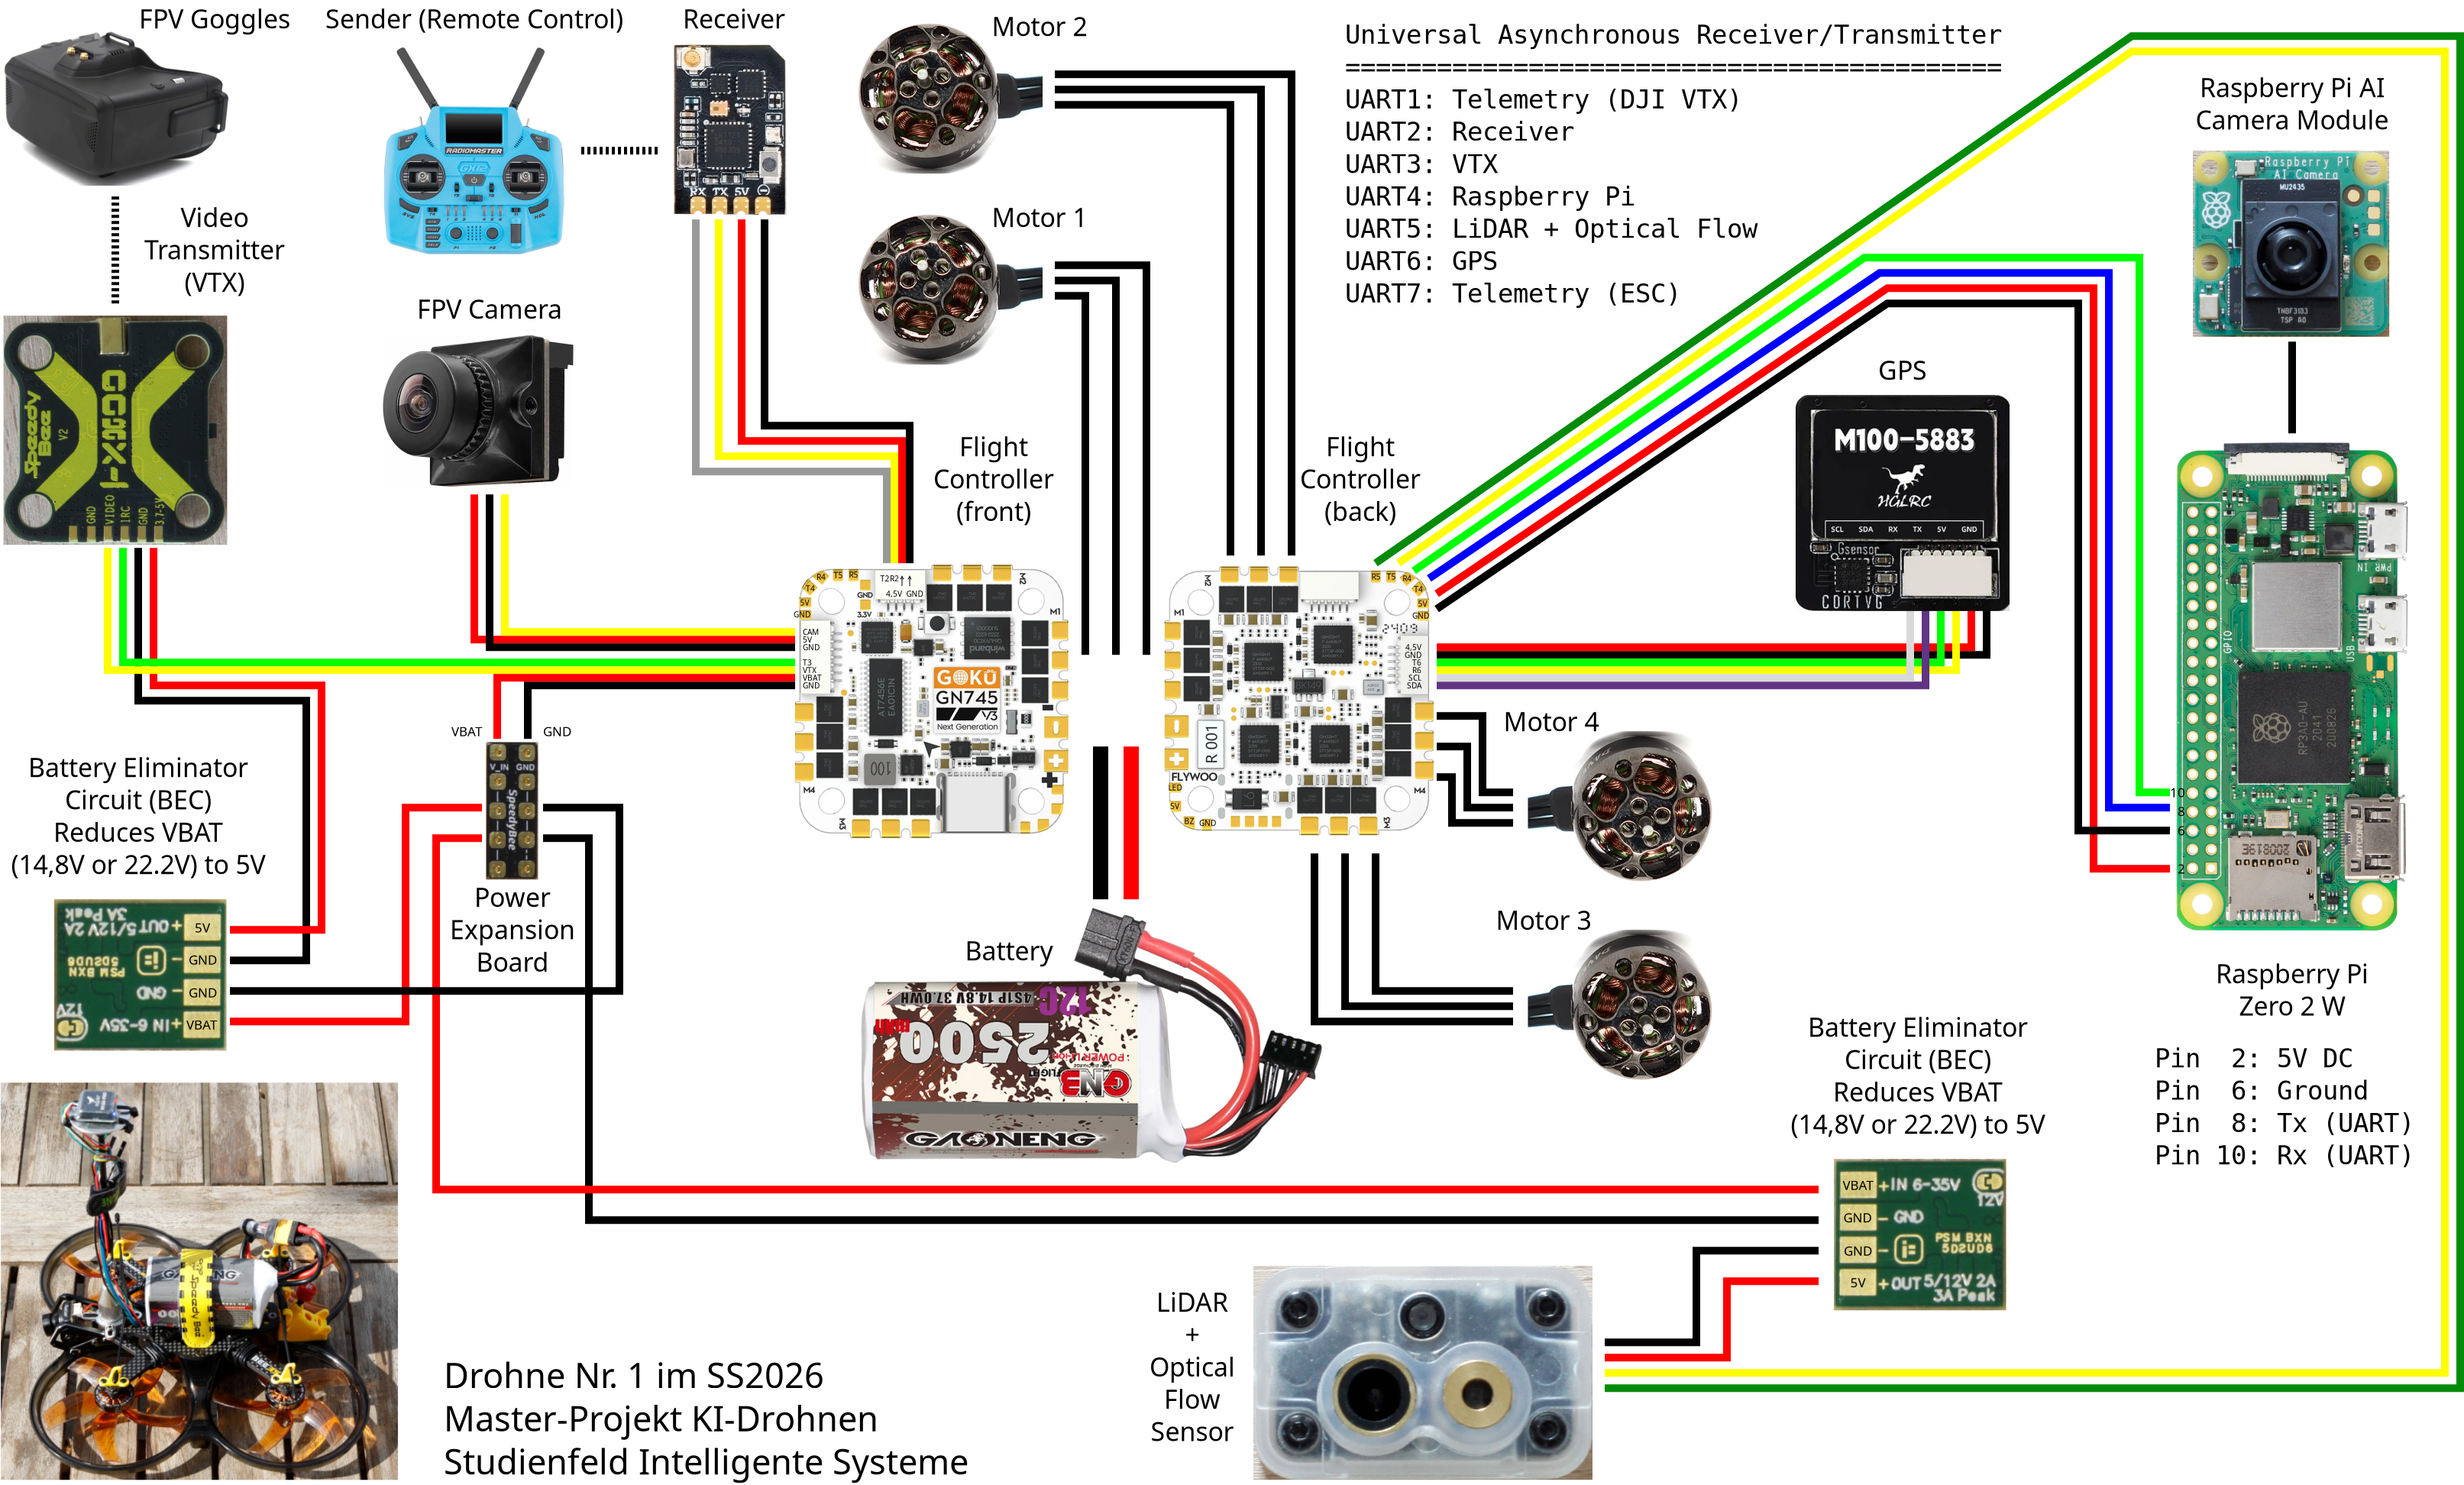
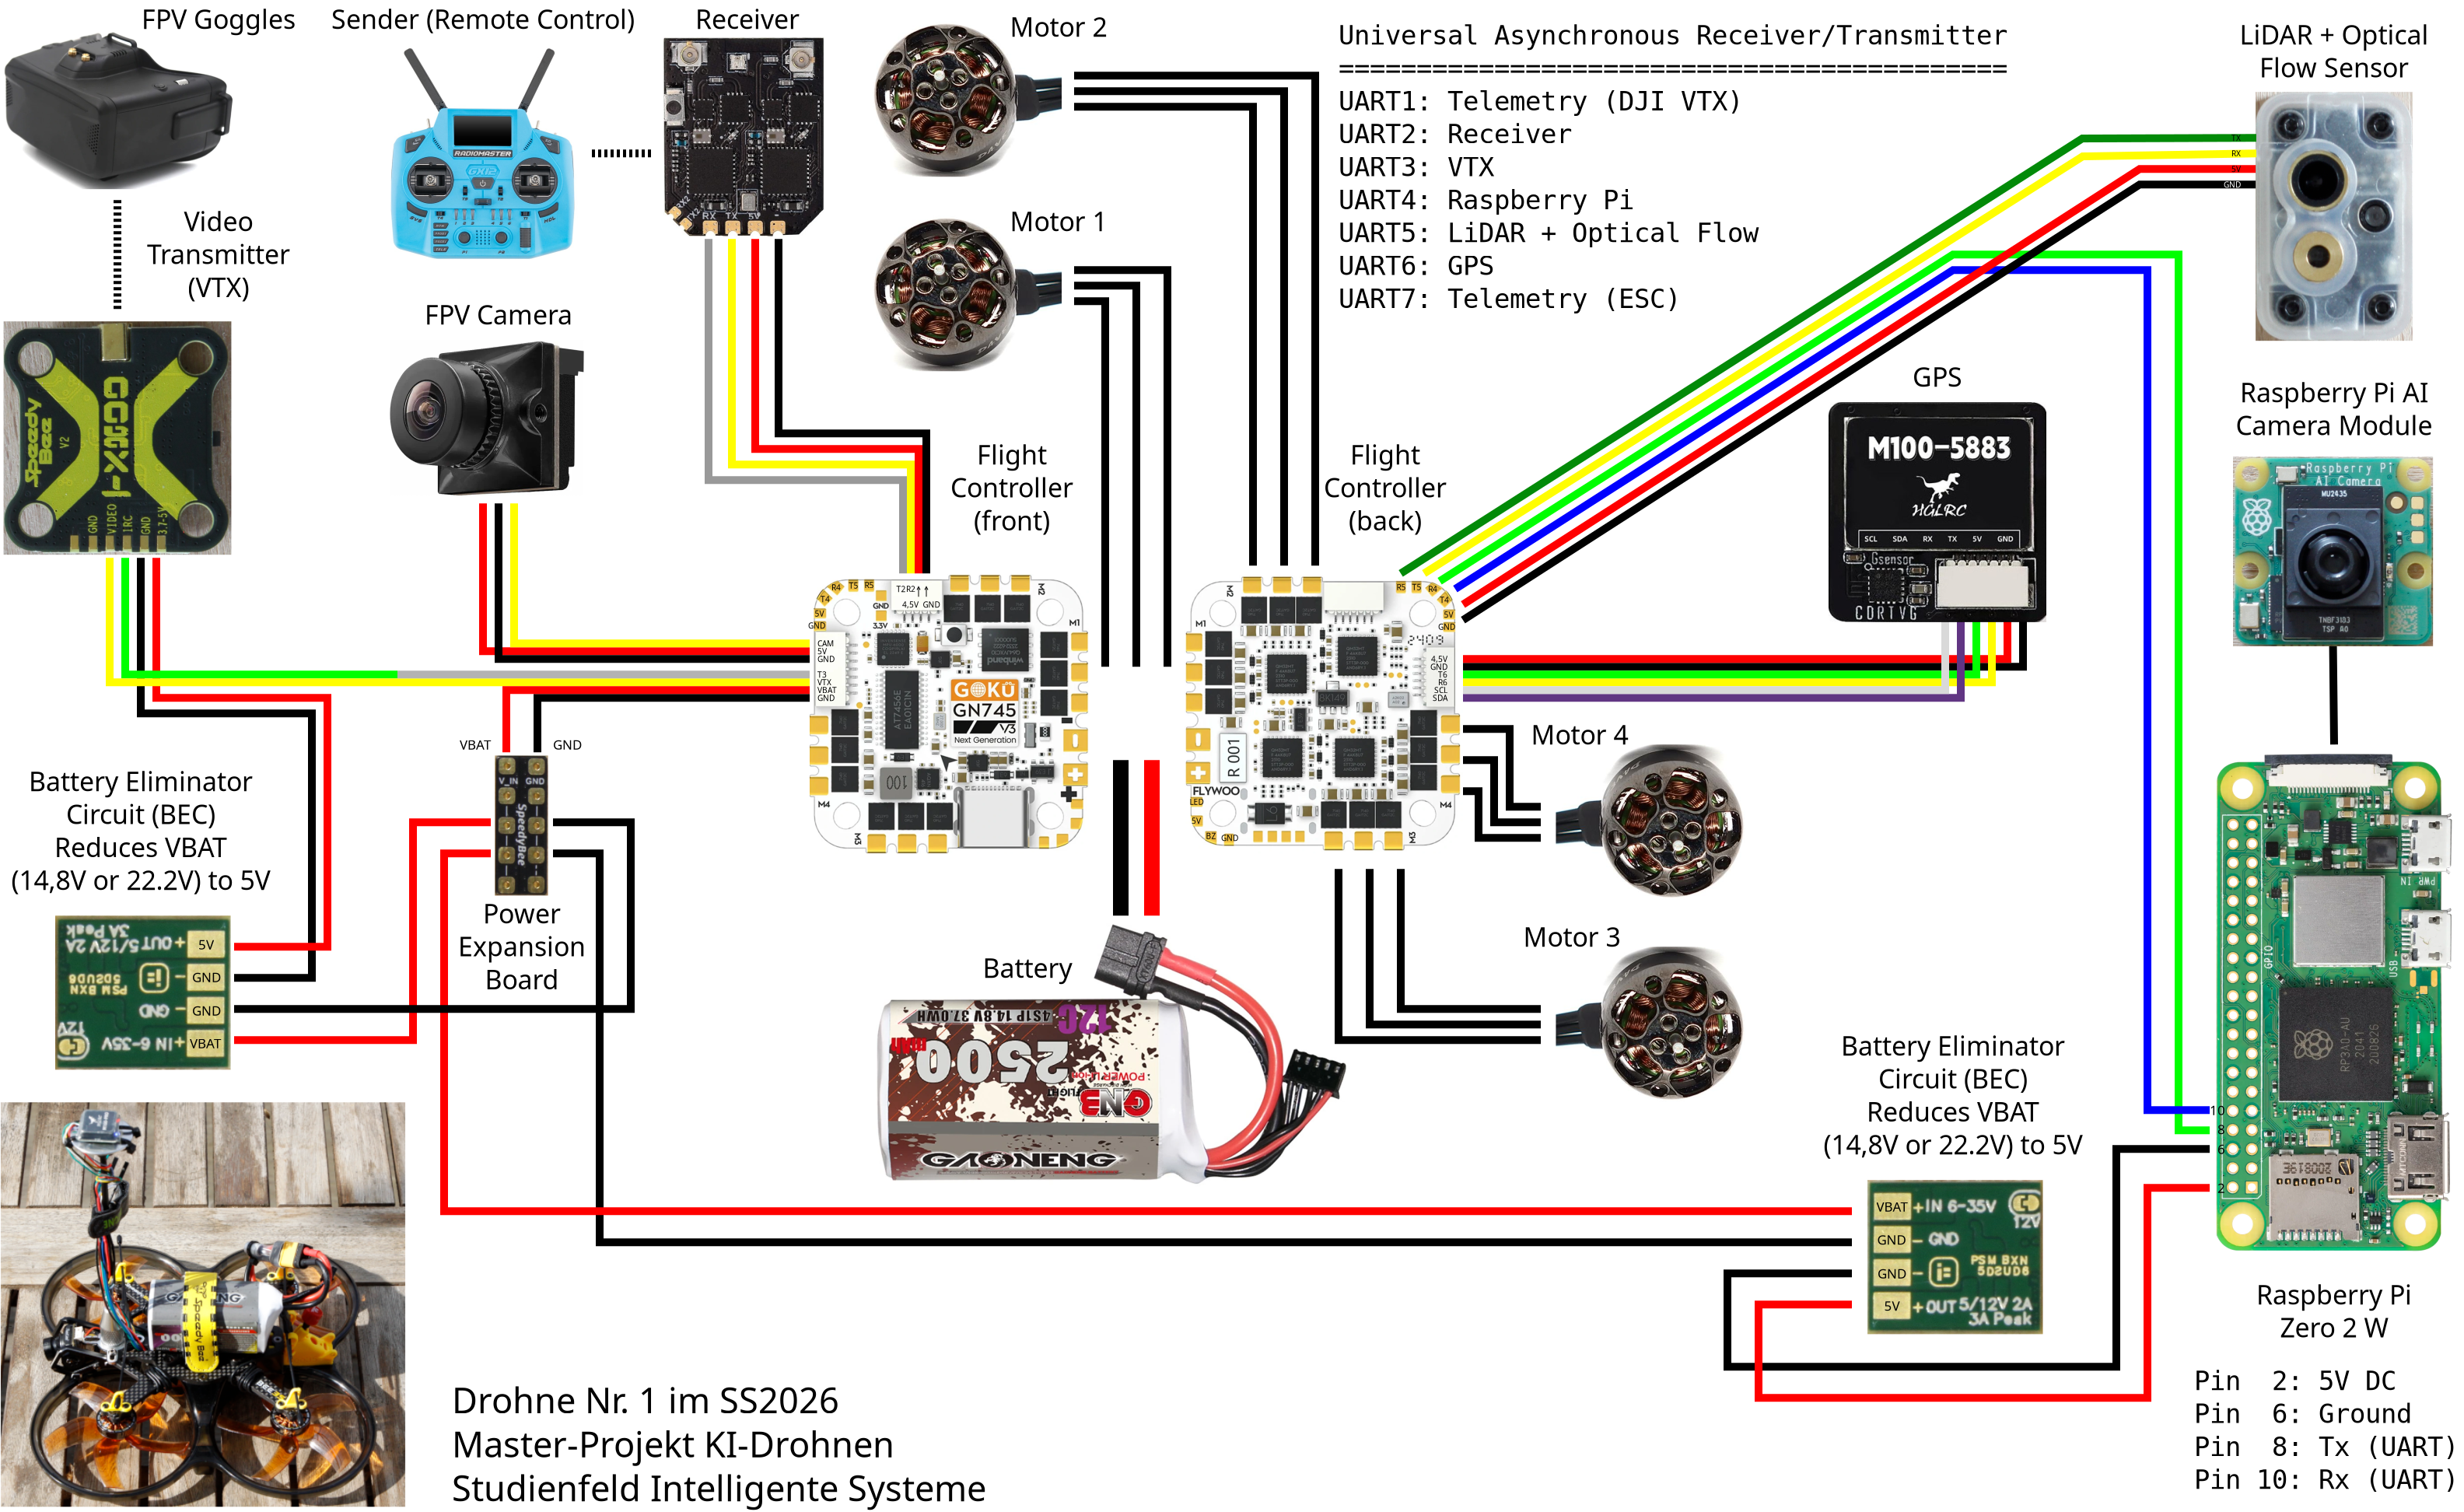
Master Project SS2026 contents

diff --git a/Master_Projekt_SS2026/index.html b/Master_Projekt_SS2026/index.html
@@ -271,7 +271,7 @@
 
 <a href="Bilder/Drohne1_unterseite.jpg"><img src="Bilder/Drohne1_unterseite_icon.jpg" alt="Drohne 1: Unterseite" width="200" height="200" border="0"></a>
 
-<a href="Bilder/Drohne_Nr1_MasterProjekt_Komponenten_v1_en_Bild_mit_Drohne.png"><img src="Bilder/Drohne_Nr1_MasterProjekt_Komponenten_v1_en_icon.png" alt="Drohne 1: Bauplan" width="332" height="200" border="0"></a>
+<a href="Bilder/Drohne_Nr1_MasterProjekt_Komponenten_v1_en_Bild_mit_Drohne.png"><img src="Bilder/Drohne_Nr1_MasterProjekt_Komponenten_v1_en_icon.png" alt="Drohne 1: Bauplan" width="326" height="200" border="0"></a>
 
 <h3>Drohne 2</h3>
 